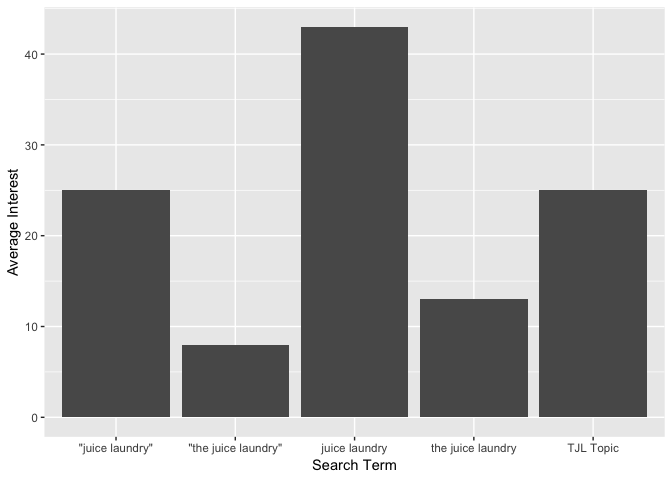
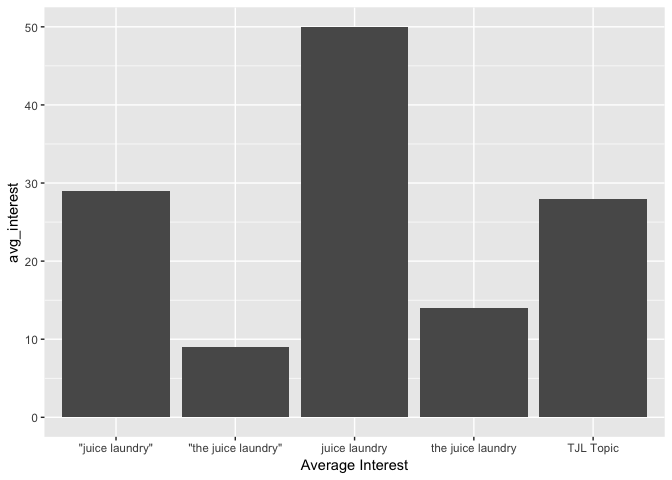
updated md

diff --git a/google-trends-guide-copy.md b/google-trends-guide-copy.md
@@ -68,29 +68,29 @@ Along the lines of what this guide will show you, *Google Trends* is most practi
 
 If you do not already have it open, go to <a href="https://trends.google.com/trends/?geo=US" target="blank">Google Trends</a>.
 
-**<u>*Step 1:*</u>** Enter *the juice laundry* as your search term. Then change *'Past 12 Months'* to a custom time range from October 9, 2016 (10-9-2016) to the end of 2018 (12-31-2018). These dates coincide with the time period of the `thejuicelaundry` package's *Square* transaction data.
+**<u>*Step 1:*</u>** Enter *"juice laundry"* (in quotes) as your search term. Then change *'Past 12 Months'* to a custom time range from October 9, 2016 (10-9-2016) to the end of 2018 (12-31-2018). These dates coincide with the time period of the `thejuicelaundry` package's *Square* transaction data.
 
 Notice that you can also change the location, category, and search type (web, image, etc.) parameters, but leave them alone.
 
-**<u>*Step 2:*</u>** Enter *The Juice Laundry* (capitalized this time) as a second search term.
+**<u>*Step 2:*</u>** Enter *"Juice Laundry"* (in quotes and capitalized this time) as a second search term.
 
 Both terms should say *'search term'* under them. You will notice that only the red line shows. This is because the **search terms are case insensitive** and the trendlines are identical.
 
-**<u>*Step 3:*</u>** Replace the second search term with *"the juice laundry"* (in quotes this time).
+**<u>*Step 3:*</u>** Replace the second search term with *"the juice laundry"* (in quotes).
 
-You will notice that the trendlines are different and that is because sourrounding the term in quotes creates a totally different query based on *Google's* algorithm. Navigate <a href="https://support.google.com/trends/answer/4359582?hl=en" target="blank">here</a> to see the results of queries that are different but that share similar terms. The takeaway is that **the algorithm is stricter on quoted terms** (because it only counts searches with that exact phrase) and the trendlines should reflect this (*"the juice laundry"* being generally lower then its non-quoted counterpart).
+The resulting trendlines will be unique, displaying generally greater search interest for the search term without *"the"* (an additional restriction) in them -- which makes sense. Take note of how the interest over time for the existing trendline (the blue) shrinks as you add the new search term. Remember that this is because **search interest for one term is relative to the search interest for another**.
 
-**<u>*Step 4:*</u>** Add *juice laundry* and the quoted *"juice laundry"*, in that order, as two more search terms.
+**<u>*Step 4:*</u>** Add *juice laundry* (not in quotes) and *the juice laundry* (not in quotes), in that order, as two more search terms.
 
-The resulting trendlines will be unique, displaying generally greater search interest than search terms with *"the"* (an additional restriction) in them -- which makes sense. Take note of how the interest over time for existing trendlines (the blue and red in this case) shrink as you added the new search terms. Remember that this is because **search interest for one term is relative to the search interest for another**.
+You will notice that the trendlines are different and that is because the quotes around the terms creates a totally different query based on *Google's* algorithm. Navigate <a href="https://support.google.com/trends/answer/4359582?hl=en" target="blank">here</a> to see the results of queries that are different but that share similar terms. The takeaway is that **the algorithm is stricter on quoted terms** (because it only counts searches with that exact phrase) and the trendlines should reflect this (*"the juice laundry"* for example being generally lower then its non-quoted counterpart).
 
-**<u>*Step 5:*</u>** Finally, add *The Juice L aundry* as another search term, but this time choose the option that states *'Juice Shop in Charlottesville, VA'* underneath it.
+**<u>*Step 5:*</u>** Finally, add *The Juice Laundry* as another search term, but this time choose the option that states *'Juice Shop in Charlottesville, VA'* underneath it.
 
 You have added what is known as a *topic*. According to Google, **a topic is a group of terms that share a concept**. For example, if you search the topic *"London,"* your search includes results for topics such as *"Capital of the UK"* and *"Londres"* which is *"London"* in Spanish. For all we know, Google's algorithm may be grouping search terms like those we have (more or less) to form the topic of *The Juice Laundry*, but we cannot know for sure what it is doing.
 
 Your screen should look very similar to the photo below. Because samples are different every day, however, the trendlines will not look exactly the same.
 
-![](https://raw.githubusercontent.com/MalcolmMashig/google-trends/master/tjl-gtrends-ui.png)
+![](https://raw.githubusercontent.com/MalcolmMashig/google-trends/master/google-trends-ui.png)
 
 **<u>*Step 6:*</u>** Scroll your mouse over the trendlines and witness how **relative search interest is aggregated for week intervals**.
 
@@ -130,10 +130,10 @@ end_date <- "2018-12-31"
 country <- "US"
 time_span <- str_c(start_date, end_date, sep = " ")
 topic_url <- "%2Fg%2F12m9gwg0k"
-search_terms <- c("the juice laundry", 
-                  '"the juice laundry"', 
+search_terms <- c('"juice laundry"', 
+                  '"the juice laundry"',
                   "juice laundry",
-                  '"juice laundry"', 
+                  "the juice laundry",
                   URLdecode(topic_url))
 ```
 
@@ -221,7 +221,7 @@ setequal(google_trends, gtrends)
 
 ### `get_gtrends_url` function
 
-Enter the parameters you desire and retrieve the URL for that exact *Google Trends* UI. Here you do not need to decode the topic terms. Then again, topic terms are not practical for this function considering you need the URL to get their codes in the first place.
+Enter the parameters you desire and retrieve the URL for the *Google Trends* Web UI with those parameters. Here you do not need to decode the topic terms. Then again, topic terms are not practical for this function considering you need the URL to get their codes in the first place.
 
 ``` r
 start_date <- "2016-10-09"
@@ -288,8 +288,6 @@ font_import(pattern = 'product-sans.ttf', prompt=FALSE)
 
 **<u>*Line Graph:*</u>**
 
-Remember that titles should state conclusions that can be made based on the graph. Make sure that the title I supplied is true and make sure it is a subtitle (a title will be too large later on).
-
 ``` r
 lg <- ggplot(
   gtrends, aes(x = week_of, y = relative_interest, color = search_term)
@@ -298,8 +296,8 @@ lg <- ggplot(
   labs(x = 'Month', 
        y = 'Relative Interest', 
        color = 'Search Term', 
-       subtitle = "Most searched: juice laundry",
-       caption = "https://goo.gl/FZPu18")
+       title = "Interest over Time",
+       caption = "https://goo.gl/XV8kHd")
   
 lg
 ```
@@ -326,8 +324,8 @@ scale_color_tech <- function(theme="airbnb", tech_key = list(
 line_graph <- lg +
   theme_tech(theme = 'google') + 
   scale_color_tech(theme = 'google') +
-  guides(color = guide_legend(nrow = 3)) +
-  theme(legend.position = 'bottom', 
+  guides(color = guide_legend(nrow = 2)) +
+  theme(legend.position = 'top', 
         legend.direction = 'vertical',
         axis.text.x = element_text(angle = 45, hjust = 1)) + 
   scale_x_date(date_labels = "%m/%Y", date_breaks = "2 months")
@@ -352,18 +350,18 @@ avg_trend
     ## # A tibble: 5 x 2
     ##   search_term             avg_interest
     ##   <chr>                          <dbl>
-    ## 1 "\"juice laundry\""               25
-    ## 2 "\"the juice laundry\""            8
-    ## 3 juice laundry                     43
-    ## 4 the juice laundry                 13
-    ## 5 TJL Topic                         25
+    ## 1 "\"juice laundry\""               29
+    ## 2 "\"the juice laundry\""            9
+    ## 3 juice laundry                     50
+    ## 4 the juice laundry                 14
+    ## 5 TJL Topic                         28
 
 Construct a draft for the bar graph. Remember that bar graphs with y variables specified must clarify that `stat = 'identity'`.
 
 ``` r
 bg <- ggplot(avg_trend, aes(x = search_term, y = avg_interest)) + 
   geom_bar(stat = 'identity') +
-  labs(x = 'Search Term', y = 'Average Interest')
+  labs(x = 'Average Interest')
 
 bg
 ```
@@ -379,8 +377,10 @@ bar_graph <- bg +
   geom_bar(stat = 'identity', fill = google_colors) + 
   theme_tech(theme = 'google') +
   scale_fill_tech(theme = 'google') +
-  theme(axis.text.x = element_text(angle = 80, hjust = 1)) + 
-  geom_text(aes(label = avg_interest, vjust = -1)) +
+  theme(axis.text.x = element_blank(),
+        axis.title.y = element_blank(),
+        axis.title.x = element_text(size = 11),
+        axis.ticks.x = element_blank()) + 
   ylim(0, 100)
 
 bar_graph
@@ -393,7 +393,7 @@ bar_graph
 Now we can arrange both graphs side by side as they appear in the UI. It did require some guessing-and-checking in order to decide the scaling that was best.
 
 ``` r
-ui_copy <- grid.arrange(bar_graph, line_graph, ncol = 2, widths = c(2, 5))
+ui_copy <- grid.arrange(bar_graph, line_graph, ncol = 2, widths = c(1, 6))
 ```
 
 ![](google-trends-guide-copy_files/figure-markdown_github/ui-replication-1.png)
@@ -404,7 +404,7 @@ ui_copy <- grid.arrange(bar_graph, line_graph, ncol = 2, widths = c(2, 5))
 
 Here is the example UI again for comparision:
 
-![](https://raw.githubusercontent.com/MalcolmMashig/google-trends/master/tjl-gtrends-ui.png)
+![](https://raw.githubusercontent.com/MalcolmMashig/google-trends/master/google-trends-ui.png)
 
 ------------------------------------------------------------------------
 
@@ -559,7 +559,7 @@ I have repeated the `gtrendsR` process but this time with just *"juice laundry"*
 
 You can find this web UI at the following link:
 
-    ## [1] "https://trends.google.com/trends/explore?date=2016-10-09%202018-12-31&geo=US&q=%22juice%20laundry%22,%22corner%20juice%22"
+    ## [1] "https://trends.google.com/trends/explore?date=2016-10-09%202018-12-31&geo=US&q=%22corner%20juice%22,%22juice%20laundry%22"
 
 ------------------------------------------------------------------------
 
